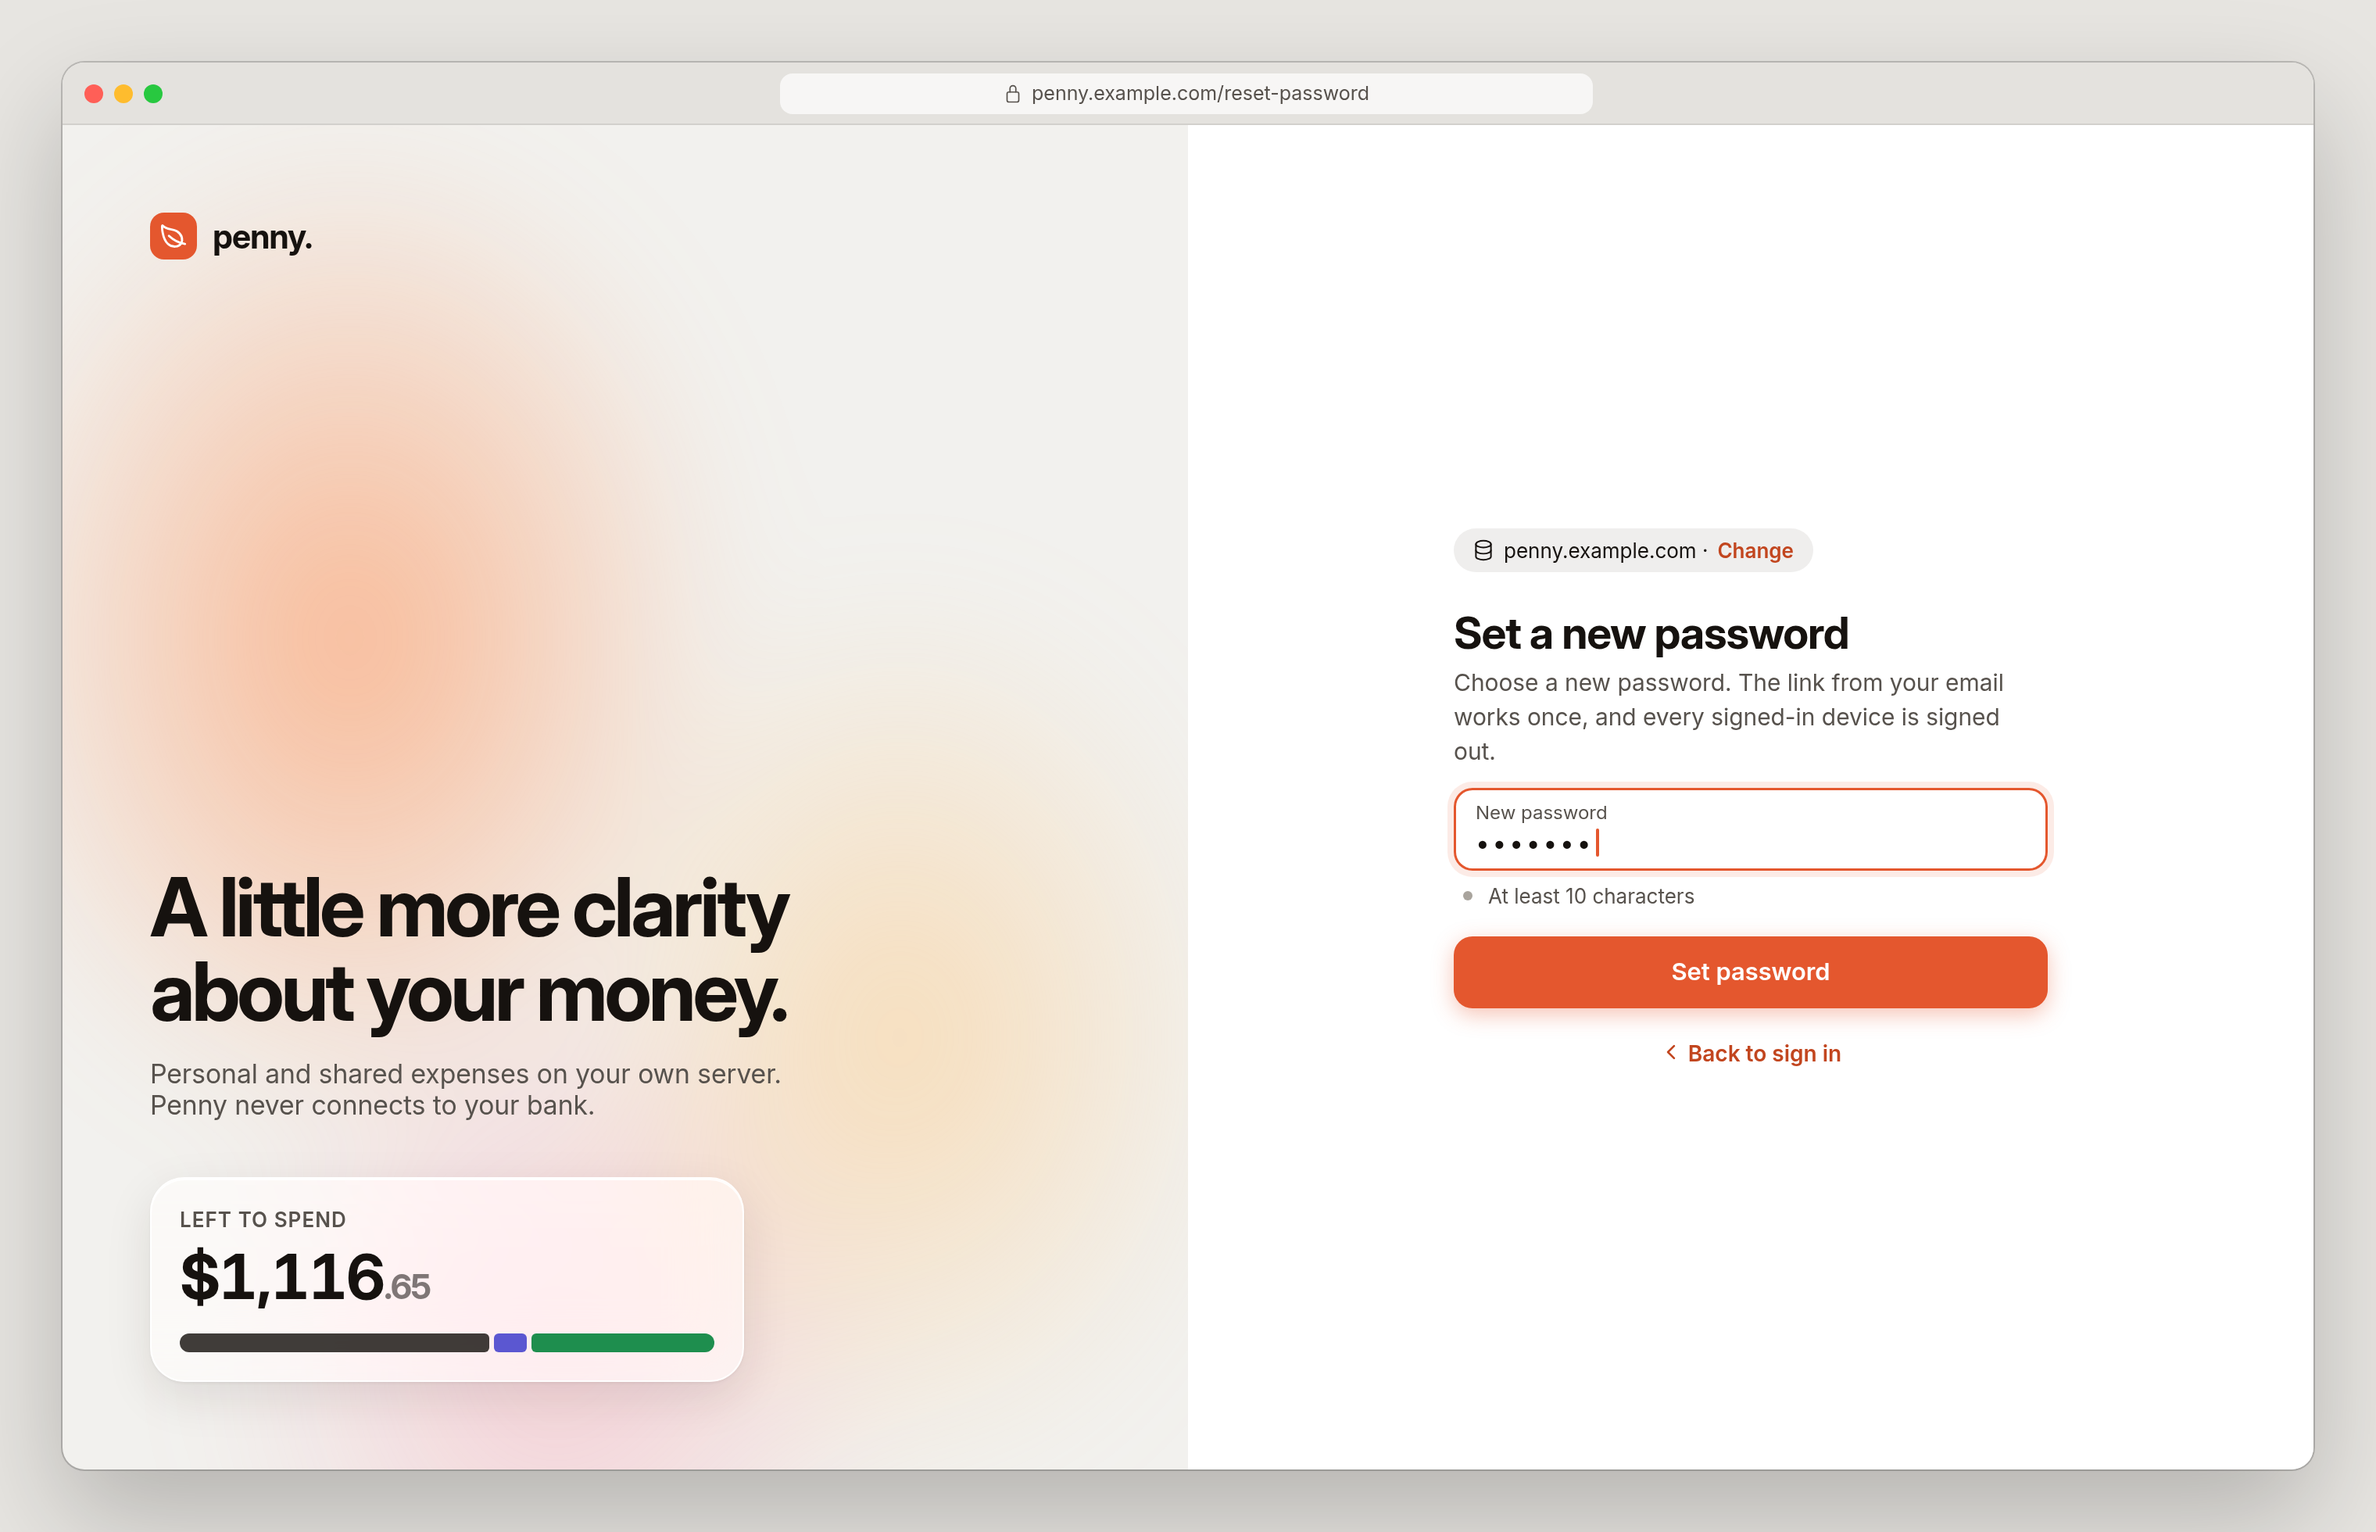
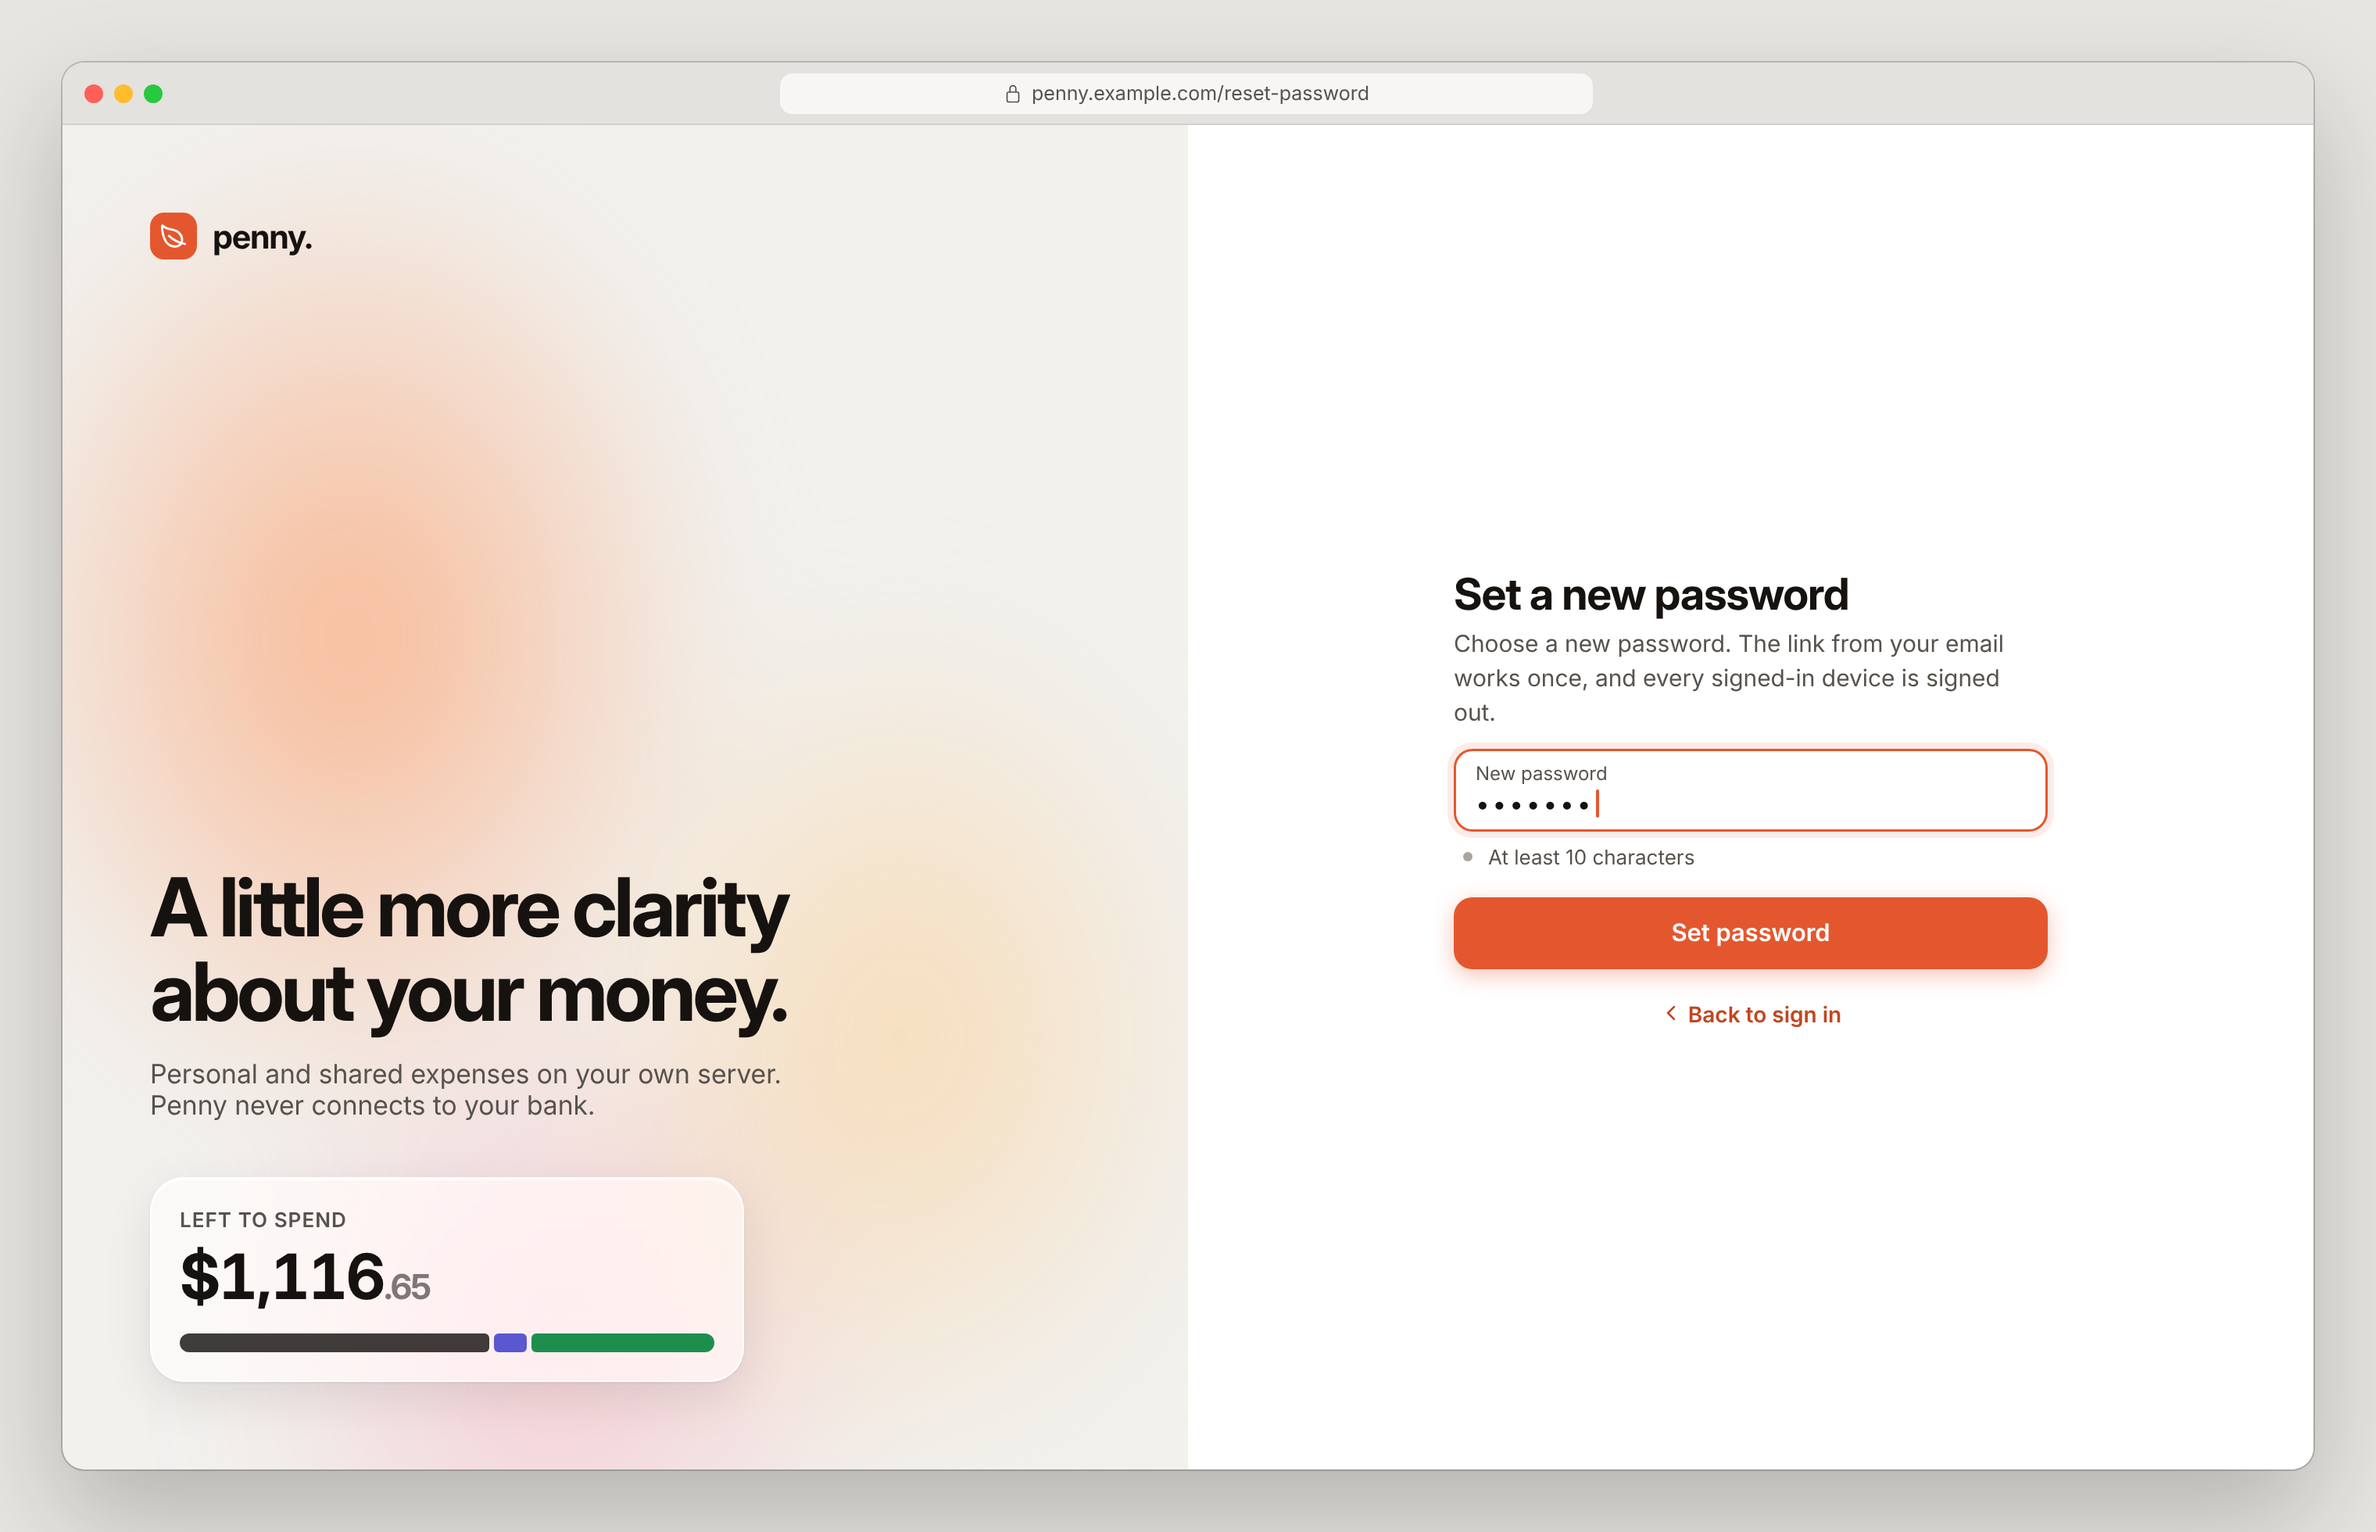
docs(design): drop the server chip and Email field from the web reset cards
The owner decided to change the cards: the web uses the server it was
opened from, as on web-sign-in, and a reset with a code takes only the
code and the new password. The three cards now match the web app.

Changed region(s): [[0.5938, 0.3423, 0.875, 0.7158]]

diff --git a/docs/design/penny-ios/web/password-reset.html b/docs/design/penny-ios/web/password-reset.html
@@ -52,10 +52,8 @@
       </div>
       <div class="formside">
         <div class="form">
-          <div class="srv"><i data-i="server" style="width:14px;height:14px"></i>penny.example.com · <a>Change</a></div>
           <h2>Set a new password</h2>
           <div class="sub">Enter the reset code your Penny server's administrator gave you, then choose a new password.</div>
-          <div class="fld"><span>Email</span><div>max@example.com</div></div>
           <div class="fld"><span>Reset code</span><div class="num" style="overflow:hidden;text-overflow:ellipsis;white-space:nowrap">3f9a1c07e2b45d68a0c1f7e93b2d4a6c8e05f1b7d39a2c4e6f80b1d3a5c7e9f2</div></div>
           <div class="fld focus"><span>New password</span><div><em class="dots">•••••••</em><em class="caret"></em></div></div>
           <div class="req"><i></i>At least 10 characters</div>

diff --git a/docs/design/penny-ios/web/password-reset-link.html b/docs/design/penny-ios/web/password-reset-link.html
@@ -52,7 +52,6 @@
       </div>
       <div class="formside">
         <div class="form">
-          <div class="srv"><i data-i="server" style="width:14px;height:14px"></i>penny.example.com · <a>Change</a></div>
           <h2>Set a new password</h2>
           <div class="sub">Choose a new password. The link from your email works once, and every signed-in device is signed out.</div>
           <div class="fld focus"><span>New password</span><div><em class="dots">•••••••</em><em class="caret"></em></div></div>

diff --git a/docs/design/penny-ios/web/forgot-password-request.html b/docs/design/penny-ios/web/forgot-password-request.html
@@ -52,7 +52,6 @@
       </div>
       <div class="formside">
         <div class="form">
-          <div class="srv"><i data-i="server" style="width:14px;height:14px"></i>penny.example.com · <a>Change</a></div>
           <h2>Reset your password</h2>
           <div class="sub">Enter the email you sign in with. We&#39;ll send a link to choose a new password.</div>
           <div class="fld focus"><span>Email</span><div>max@example.com<em class="caret"></em></div></div>

diff --git a/apps/web/e2e/cards.real.spec.ts b/apps/web/e2e/cards.real.spec.ts
@@ -929,7 +929,6 @@ const cards: Record<string, Card> = {
     },
   },
   "web-password-reset": {
-    note: "The API takes no email, so the page has no Email field.",
     open: async ({ page: p }) => {
       await p.goto("/reset-password");
       await expect(p.getByRole("heading", { level: 1, name: "Set a new password" })).toBeVisible();

diff --git a/.design-sync/NOTES.md b/.design-sync/NOTES.md
@@ -30,7 +30,7 @@
 - **Household row and web Note in Add entry (MAZ-277, owner decision):** `iphone/entry-extras.html` adds a Household row (Personal ›) in its own inset list after Trip; `ipad/add-entry.html` adds a Household row to Details after Trip; `web/add-entry.html` adds a Household row after Trip and a Note field under the receipt drop zone. No kit change. Push the three cards at the next re-sync.
 - **Drafted cards (MAZ-238):** 35 new cards for screens that had none (18 `iphone/`, `ipad/home-portrait.html`, 16 `web/`), listed in [visual acceptance](../docs/design/visual-acceptance.md#drafted-cards-maz-238-2026-11-22). No kit change: they reuse `penny.css`, `ipad.css`, `web.css`, `web.js` and the existing icons; QR codes, the camera view and the iPad sidebar toggle are drawn in each card. `web/tablet.html` draws its own icon rail instead of the `web.js` sidebar. Push them at the next re-sync, once the owner has approved them.
 - **Account and profile drafts (MAZ-267):** 26 new cards (14 `iphone/`, `ipad/profile.html`, 11 `web/`), listed in [visual acceptance](../docs/design/visual-acceptance.md#drafted-cards-account-and-profile-maz-267-2026-11-22). No kit change: they reuse `penny.css`, `ipad.css`, `web.css`, `web.js` and the existing icons. The Apple and Google marks, an envelope (Ionicons `mail-outline`, MIT) and the sample profile picture (CSS gradients) are drawn in each card. Push them at the next re-sync, once the owner has approved them.
-- **Email delivery drafts (MAZ-124):** 2 new `web/` cards, `forgot-password-request.html` (ask for the reset link) and `password-reset-link.html` (set a new password from the emailed link), listed in [visual acceptance](../docs/design/visual-acceptance.md#drafted-cards-email-delivery-maz-124-2026-11-22). No kit change: they reuse the split sign-in layout of `web/password-reset.html` and `web/forgot-password.html`. Push both cards at the next re-sync.
+- **Email delivery drafts (MAZ-124):** 2 new `web/` cards, `forgot-password-request.html` (ask for the reset link) and `password-reset-link.html` (set a new password from the emailed link), listed in [visual acceptance](../docs/design/visual-acceptance.md#drafted-cards-email-delivery-maz-124-2026-11-22). No kit change: they reuse the split sign-in layout of `web/password-reset.html` and `web/forgot-password.html`. Owner decision (2026-11-23): the three web reset cards (`forgot-password-request.html`, `password-reset-link.html` and `password-reset.html`) drop the server chip, since the web uses the server it was opened from, and `password-reset.html` drops its Email field, since a reset with a code takes only the code and the new password. Their baselines were re-rendered. Push all three cards at the next re-sync.
 - **Move and remove, every category color and icon (MAZ-251, owner decision):** `iphone/account-form.html` replaces the locked "Remove account" row with a "Move them to" picker and a "Move and remove" button (disabled until an account is chosen) over the note "Visa is used by 31 entries and 3 schedules."; `iphone/category-form.html` shows all eight colors (two rows of four) and the 30 icons the apps offer, the card's original 18 first. Both add the Ionicons they need beyond `assets/icons.js` (`chevron-expand`; `car`, `fitness`, `school`, `paw`) in their own script, so the shared assets and the other baselines are unchanged. No kit change. Push the two cards at the next re-sync.
 - **No entry time (MAZ-273, owner decision):** `ipad/activity.html` and `web/activity.html` show only the date in the entry detail ("Food & drinks · Today", was "Today, 8:42 AM"), because entries store no time. No kit change. Push the two cards at the next re-sync.
 - **No category reorder on the web (MAZ-283, owner decision on MAZ-257):** `web/categories.html` drops "Drag to reorder" and the drag handles; its rows end in a chevron, because Penny keeps no category order. No kit change. Push the card at the next re-sync.

diff --git a/docs/design/visual-acceptance.md b/docs/design/visual-acceptance.md
@@ -261,7 +261,7 @@ Screens that follow an existing card instead of getting their own:
 
 ## Drafted cards: email delivery (MAZ-124, 2026-11-22)
 
-With email delivery configured on the server, the web password reset gets the two steps MAZ-267 left to `web-password-reset`. Both are drafted in the split sign-in layout, light and dark, for the owner's review; the web hasn't built them.
+With email delivery configured on the server, the web password reset gets the two steps MAZ-267 left to `web-password-reset`. Both are drafted in the split sign-in layout, light and dark, for the owner's review.
 
 | Step | Card |
 | --- | --- |
@@ -270,6 +270,8 @@ With email delivery configured on the server, the web password reset gets the tw
 | Set a new password from the emailed link: no Email or Reset code field, since the link carries the token, and the note that every signed-in device is signed out | `web-password-reset-link` |
 
 The request step says the same thing whether or not the email has an account, as `web-forgot-password` does. Without email on the server, sign-in has no Forgot password and `web-password-reset` stays the only reset.
+
+Owner decision (2026-11-23): none of the three web reset cards shows the server chip, because the web uses the server it was opened from, as on `web-sign-in`. `web-password-reset` has no Email field, because a reset with a code takes only the code and the new password.
 
 ## Review scenarios
 
